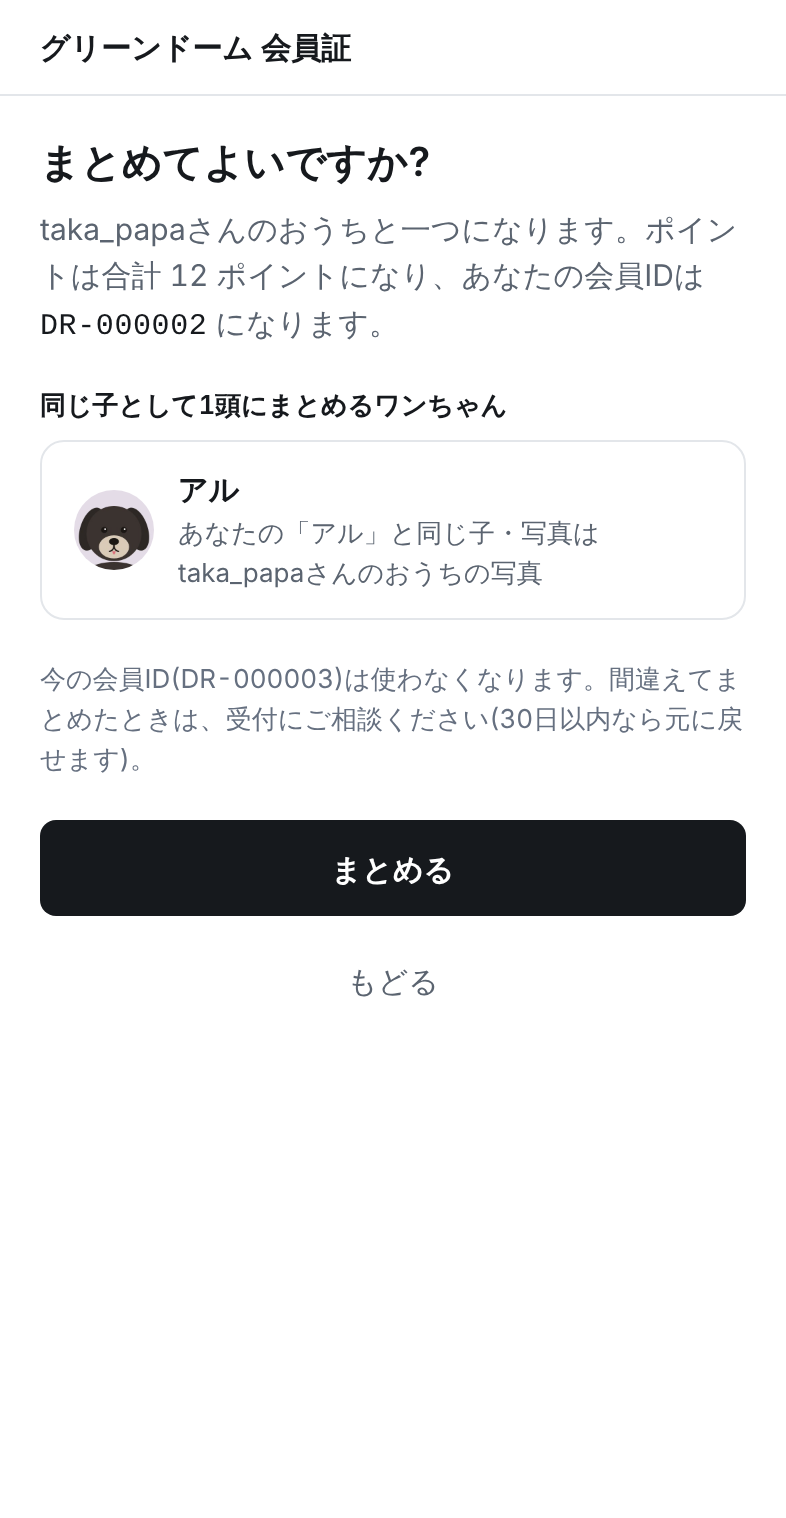
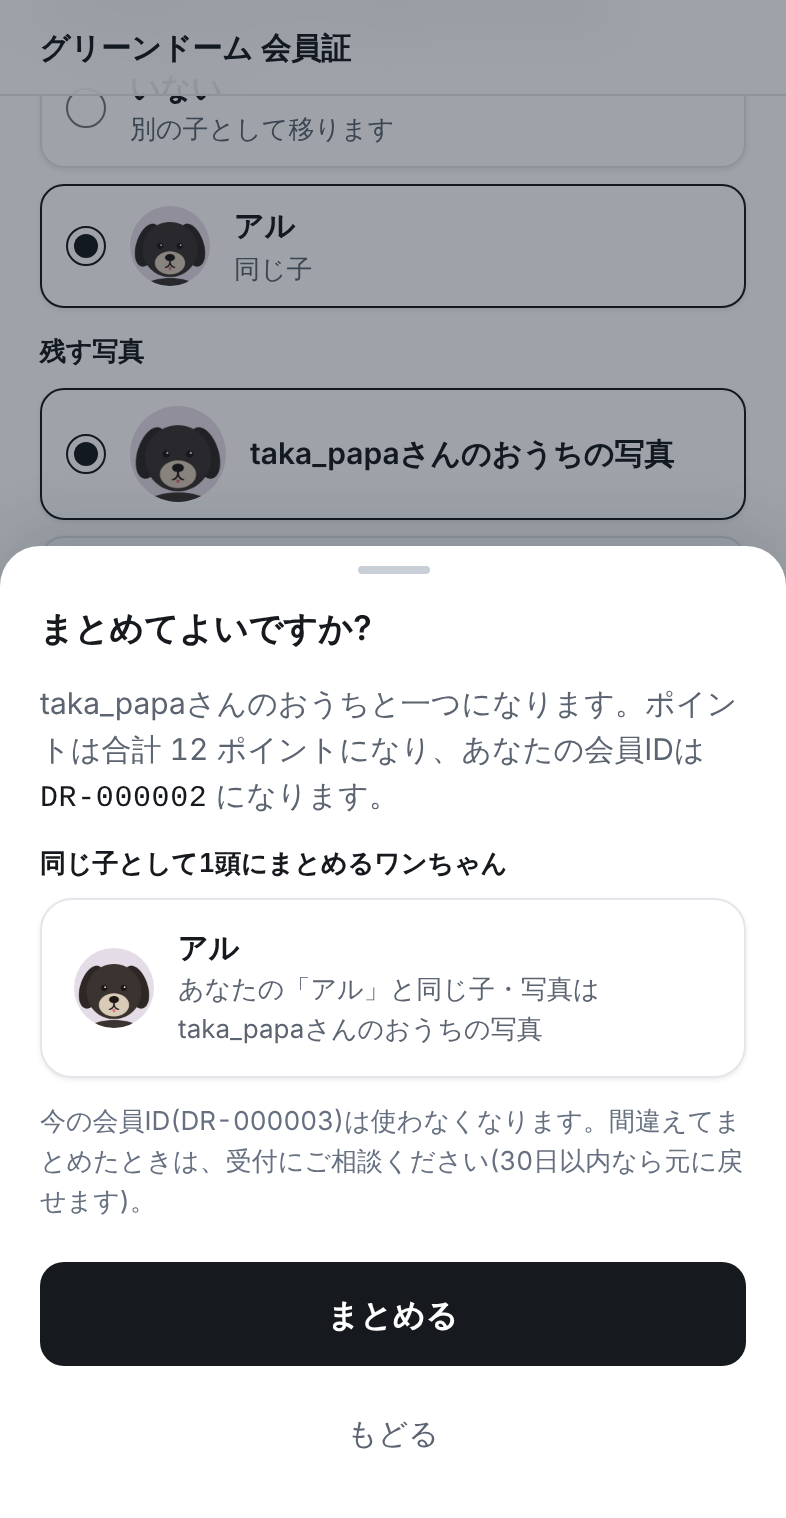
LIFF 今風化: デモとマニュアルの e2e を下に固定した帯・シートに合わせ、お客さん向けのマニュアルの写真を撮り直す
デモのスマホは iframe の中で帯が固定されるため、Playwright のスクロールではデモのページが動かない。
先にスマホの枠の下端まで動かしてから押す(barClick)。

Claude-Session: https://claude.ai/code/session_01CeXocUtpkzvyuQwQbmjHXB

diff --git a/e2e/demo.spec.ts b/e2e/demo.spec.ts
@@ -16,6 +16,15 @@ test.beforeEach(async ({ context }) => {
 const phone = (page: Page) => page.frameLocator('iframe[title="お客さんのスマホ"]');
 const adminFrame = (page: Page) => page.frameLocator('iframe[title="受付・管理画面"]');
 
+/**
+ * スマホの画面の下に固定した帯(主ボタン)を押す。帯は iframe の中で固定されているため、
+ * Playwright のスクロールではデモのページ側が動かない。先にスマホの枠の下端が見えるところまでページを動かす。
+ */
+async function barClick(page: Page, name: string) {
+  await page.locator('iframe[title="お客さんのスマホ"]').evaluate((el) => el.scrollIntoView({ block: 'end' }));
+  await phone(page).locator('.action-bar').getByRole('button', { name, exact: true }).click();
+}
+
 async function openDemo(page: Page) {
   await page.goto('/');
   await page.getByRole('heading', { name: '打ち合わせ用の手順' }).waitFor({ timeout: 30_000 });
@@ -35,17 +44,17 @@ test('手順1〜4: はじめての登録、9ポイントのおうちのチェッ
   const p = phone(page);
   await expect(p.getByRole('heading', { name: 'はじめての方へ' })).toBeVisible();
   await p.getByLabel('利用規約とプライバシーポリシーに同意します').check();
-  await p.getByRole('button', { name: '同意して次へ' }).click();
+  await barClick(page, '同意して次へ');
   const form = p.locator('fieldset.dog-form').first();
   await form.getByLabel('名前').fill('ポチ');
   await form.getByRole('combobox', { name: /犬種/ }).selectOption({ label: '柴犬' });
   await p.locator('input[type="file"]').first().setInputFiles({ name: 'dog.jpg', mimeType: 'image/jpeg', buffer: await makePhoto(page) });
   await expect(p.getByText('写真を撮り直す・選び直す')).toBeVisible();
-  await p.getByRole('button', { name: '次へ' }).click();
+  await barClick(page, '次へ');
   await p.getByRole('radiogroup', { name: /年代/ }).getByRole('radio', { name: '30代' }).check();
   await p.getByRole('radiogroup', { name: /性別/ }).getByRole('radio', { name: '女性' }).check();
   await p.getByRole('radiogroup', { name: /きっかけ/ }).getByRole('radio', { name: 'Instagram' }).check();
-  await p.getByRole('button', { name: '登録する' }).click();
+  await barClick(page, '登録する');
   await expect(p.getByText('登録が完了しました')).toBeVisible();
   await expect(p.getByText('DR-000031')).toBeVisible();
   await expect(page.getByTestId('who-note')).toContainText('ポチのおうち(DR-000031)');
@@ -54,7 +63,7 @@ test('手順1〜4: はじめての登録、9ポイントのおうちのチェッ
   await scene(page, 2);
   await expect(page.getByTestId('who-note')).toContainText('9ポイント');
   await p.getByRole('checkbox', { name: /だいず/ }).uncheck();
-  await p.getByRole('button', { name: 'チェックインする' }).click();
+  await barClick(page, 'チェックインする');
   await expect(p.getByRole('region', { name: 'チェックイン完了' })).toBeVisible();
   await expect(p.getByText(/会員証の「無料券と交換する」から、無料券と交換できます/)).toBeVisible();
   await expect(adminFrame(page).getByRole('listitem', { name: /こむぎ/ })).toBeVisible();
@@ -69,13 +78,13 @@ test('手順1〜4: はじめての登録、9ポイントのおうちのチェッ
   await p.getByRole('radiogroup', { name: /年代/ }).getByRole('radio', { name: '40代' }).check();
   await p.getByRole('radiogroup', { name: /性別/ }).getByRole('radio', { name: '男性' }).check();
   await p.getByLabel('利用規約とプライバシーポリシーに同意します').check();
-  await p.getByRole('button', { name: '参加する' }).click();
+  await barClick(page, '参加する');
   await expect(p.getByText('参加しました')).toBeVisible();
 
   // 4 パパも同じ日にチェックイン: ポイントは増えず、一緒に来た だいず を追加できる
   await scene(page, 4);
   await expect(p.getByText('今日はこむぎママさんがチェックイン済みです。')).toBeVisible();
-  await p.getByRole('button', { name: 'ワンちゃんを追加する' }).click();
+  await barClick(page, 'ワンちゃんを追加する');
   await expect(p.getByRole('region', { name: 'チェックイン完了' })).toBeVisible();
   await expect(page.getByTestId('who-note')).toContainText('こむぎ・だいずのおうち(DR-000001)・10ポイント');
 });
@@ -94,7 +103,7 @@ test('管理画面: ログイン・今日の来場・取り消し・製作者は
 
   // お客さんがチェックインすると、今日の来場に出る
   await scene(page, 2);
-  await phone(page).getByRole('button', { name: 'チェックインする' }).click();
+  await barClick(page, 'チェックインする');
   await expect(phone(page).getByRole('region', { name: 'チェックイン完了' })).toBeVisible();
 
   // 受付スタッフで取り消す
@@ -127,7 +136,7 @@ test('管理画面: ログイン・今日の来場・取り消し・製作者は
 test('再読み込みしても続きから使え、「翌日にする」と「最初からやり直す」が効く', async ({ page }) => {
   await openDemo(page);
   await scene(page, 2);
-  await phone(page).getByRole('button', { name: 'チェックインする' }).click();
+  await barClick(page, 'チェックインする');
   await expect(phone(page).getByRole('region', { name: 'チェックイン完了' })).toBeVisible();
 
   await page.reload();

diff --git a/e2e/manual-shots.spec.ts b/e2e/manual-shots.spec.ts
@@ -103,9 +103,10 @@ test('お客さん: 会員証・チェックイン・無料券', async ({ browse
 
   await page.getByRole('button', { name: '無料券と交換する(10ポイント)' }).click();
   await expect(page.getByRole('dialog', { name: '無料券と交換します' })).toBeVisible();
-  await scrollToTop(stamps);
+  // シートが開いているあいだ、後ろの画面は読み上げの対象から外れる(スクロールの位置は開く前のまま)。下から出る動きを待つ
+  await page.waitForTimeout(400);
   await shot(page, 'customer-ticket-exchange');
-  await page.getByRole('dialog', { name: '無料券と交換します' }).getByRole('button', { name: '交換する' }).click();
+  await page.getByRole('dialog', { name: '無料券と交換します' }).getByRole('button', { name: '交換する', exact: true }).click();
   await expect(page.getByRole('status')).toHaveText('無料券と交換しました。');
 
   const row = page.getByRole('list', { name: '未使用の無料券' }).getByRole('listitem').first();
